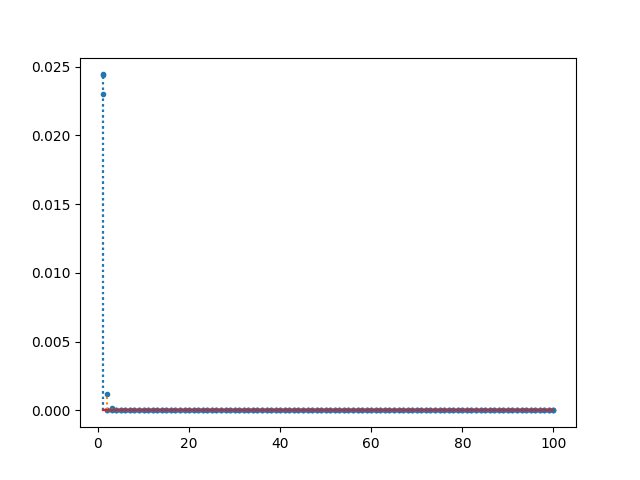
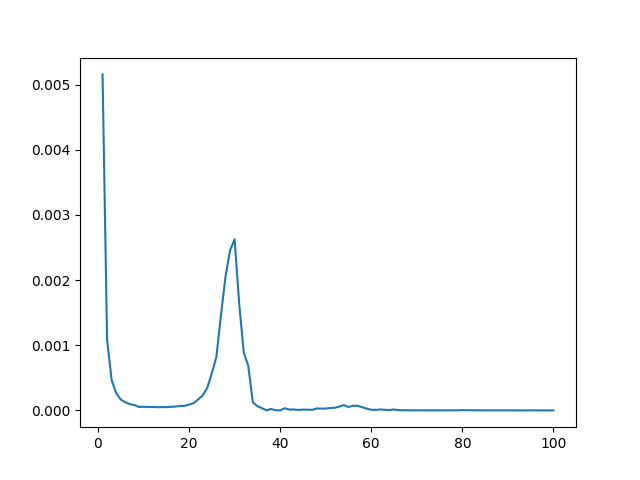
arreglats multiplots

diff --git a/tools.py b/tools.py
@@ -27,14 +27,14 @@ def vverlet_step(x, v, dt, pot_par):
 
 # Pre: x and v contain the initial conditions for position and velocity of each particle
 # Post: x and v contain the position and velocity for each particle at time time*dt
-# Retorna una matriu amb l'energia de cada mode per cada temps de tc 
+# Retorna una matriu amb l'energia de cada mode per cada temps de tc
 def vverlet(x, v, dt, time, pot_par, tc):
     E = np.zeros((len(tc),len(x)-2)) # matrix: time checkpoints x number of modes
     for t in range(time+1): #+1 per tenir els valors en time
         print("vverlet: step {}".format(t))
-        
+
         vverlet_step(x, v, dt, pot_par)
-        
+
         if t in tc:
             E[tc.index(t)] = calc_Ek(x,v)
     return E
@@ -49,7 +49,7 @@ def aux_calc_Ek(v):
         res = res + v[i]*np.sin(np.pi*k*i/(N+1))
     res = res * np.sqrt(2/(N+1))
     return res
-    
+
 # q = vector posicions (respecte equilibri)
 # v = vector velocitats
 # N doesn't count the edge particles (which are fixed)

diff --git a/simulation.py b/simulation.py
@@ -3,7 +3,7 @@ from tools import *
 # SIMULATION PARAMETERS
 
 # Total time = time*dt
-time = 500000
+time = 100000
 dt = 1e-1
 
 #"Time checkpoints"
@@ -13,7 +13,7 @@ tc = [0,1000,10000,100000,200000,400000,500000]
 N = 100
 
 # Potential parameters
-alpha = -1.0
+alpha = -5.0
 beta = 2.0
 pot_par = (alpha,beta)
 
@@ -33,11 +33,12 @@ x = np.array([1*np.sin(np.pi*i/(N+1)) for i in range(N+2)])
 # SIMULATION: CALCULATION AND PLOT
 E = vverlet(x, v, dt, time, pot_par, tc)
 
-k = np.arange(N) + 1 
+k = np.arange(N) + 1
 for i in range(E.shape[0]):
+    fig, ax = plt.subplots()
     print("E total at time {}: {}".format(tc[i],np.sum(E[i,:])))
-    plt.stem(k,E[i,:], linefmt=':', markerfmt='C0.')
-    plt.savefig("plots/energy_modes_{}.png".format(tc[i]))
+    ax.plot(k,E[i,:]) #, linefmt=':', markerfmt='C0.')
+    plt.savefig('./plots/energy_modes_{}.png'.format(tc[i]))
 
 # Calculate Ek for 1 <= k <= N
 # Plot Ek w.r.t. k
